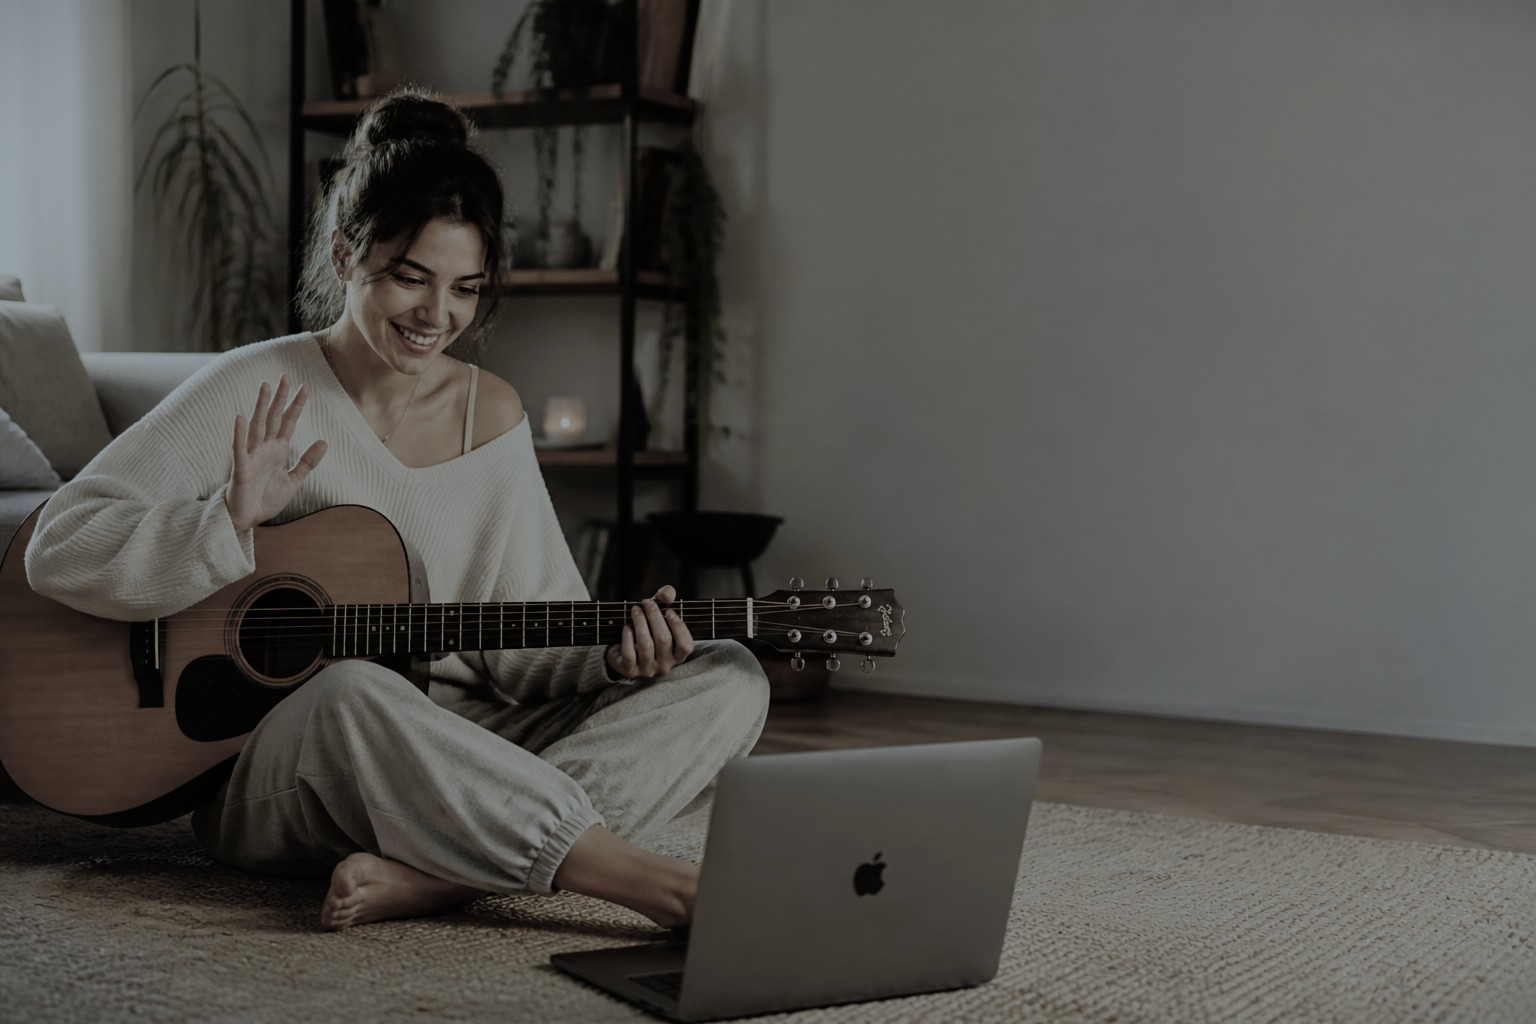
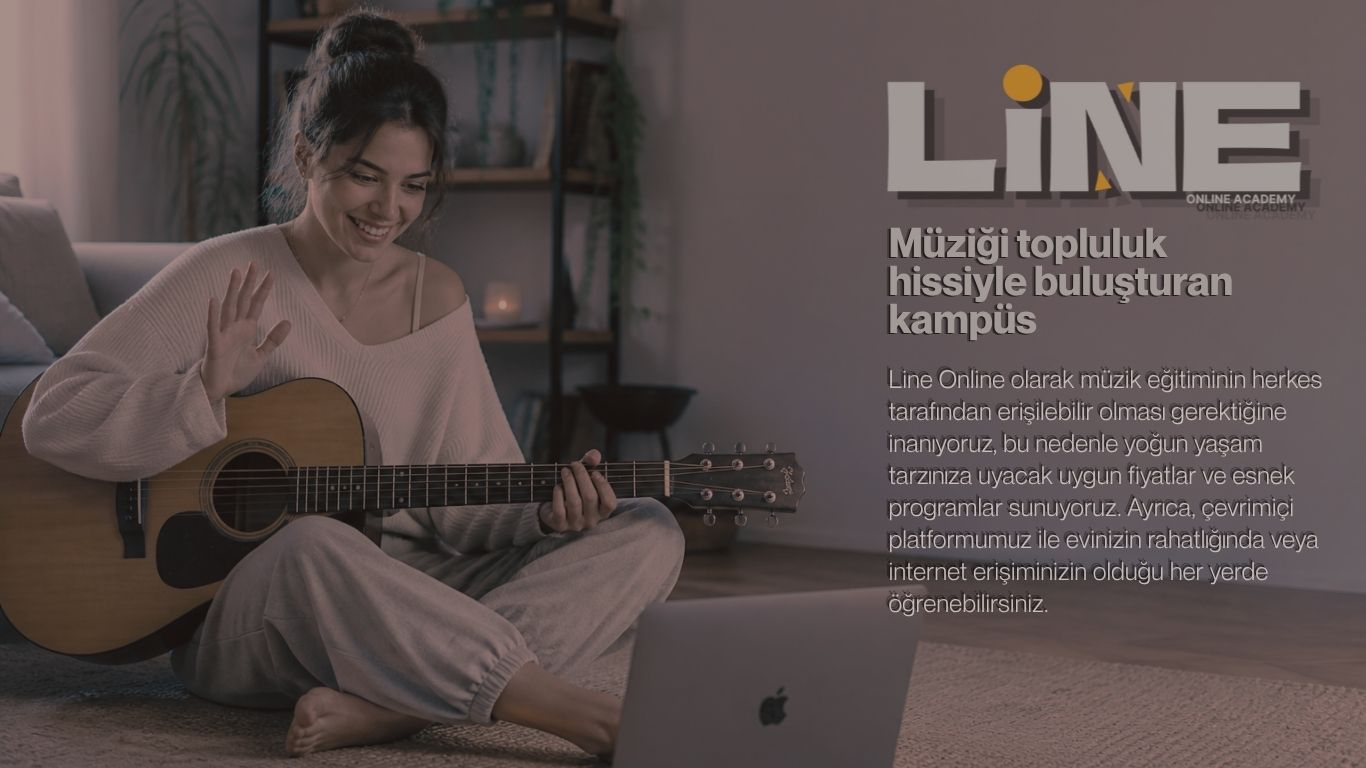
Add files via upload

diff --git a/styles.css b/styles.css
@@ -569,13 +569,14 @@ button {
 
 #dashboard {
   display: flex;
-  min-height: calc(100vh - 104px);
+  min-height: calc(100vh - var(--topbar-height));
+  padding: 0;
 }
 
 .home-landing {
   position: relative;
   flex: 1;
-  min-height: min(78vh, 860px);
+  min-height: calc(100vh - var(--topbar-height));
   border-radius: 0;
   overflow: hidden;
   background: #1b1718;
@@ -598,63 +599,38 @@ button {
 
 .home-landing-overlay {
   background:
-    linear-gradient(90deg, rgba(16, 13, 14, 0.12) 0%, rgba(16, 13, 14, 0.18) 38%, rgba(32, 26, 28, 0.72) 62%, rgba(32, 26, 28, 0.82) 100%),
-    linear-gradient(180deg, rgba(20, 16, 18, 0.06) 0%, rgba(20, 16, 18, 0.2) 100%);
+    linear-gradient(180deg, rgba(18, 14, 16, 0.08) 0%, rgba(18, 14, 16, 0.22) 100%);
 }
 
 .home-landing-copy {
-  inset: 0 0 0 auto;
-  width: min(43%, 500px);
-  display: grid;
-  align-content: center;
-  gap: 18px;
-  padding: 54px 34px 40px;
+  inset: auto 0 0 0;
+  display: flex;
+  justify-content: flex-end;
+  align-items: flex-end;
+  padding: 28px 30px 26px;
   z-index: 1;
 }
 
-.home-landing-logo {
-  width: min(100%, 320px);
-  margin-left: auto;
-  filter: drop-shadow(0 14px 18px rgba(0, 0, 0, 0.38));
-}
-
-.home-landing-copy h3 {
-  margin: 0;
-  max-width: 320px;
-  color: #f1ece7;
-  font-size: clamp(2rem, 3.4vw, 3.4rem);
-  line-height: 0.96;
-  letter-spacing: -0.05em;
-  text-shadow: 4px 4px 0 rgba(24, 20, 21, 0.48);
-}
-
-.home-landing-copy p {
-  margin: 0;
-  color: rgba(243, 237, 232, 0.95);
-  font-size: clamp(1rem, 1.15vw, 1.22rem);
-  line-height: 1.55;
-  text-shadow: 2px 2px 0 rgba(24, 20, 21, 0.24);
-}
-
 .home-landing-cta {
-  justify-self: end;
-  margin-top: 8px;
-  padding: 0;
-  border: 0;
-  background: transparent;
+  padding: 14px 18px;
+  border: 1px solid rgba(255, 255, 255, 0.1);
+  border-radius: 16px;
+  background: rgba(18, 16, 18, 0.46);
+  backdrop-filter: blur(10px);
   color: #fff7ef;
-  font-size: 1rem;
+  font-size: 0.95rem;
   font-weight: 900;
   letter-spacing: 0.06em;
   text-transform: uppercase;
   text-align: right;
   cursor: pointer;
   text-shadow: 2px 2px 0 rgba(24, 20, 21, 0.38);
-  transition: opacity 150ms ease, transform 150ms ease;
+  box-shadow: 0 14px 30px rgba(0, 0, 0, 0.22);
+  transition: opacity 150ms ease, transform 150ms ease, background 150ms ease;
 }
 
 .home-landing-cta:hover {
-  opacity: 0.86;
+  background: rgba(24, 21, 24, 0.66);
   transform: translateY(-1px);
 }
 
@@ -3879,16 +3855,11 @@ button {
   }
 
   .home-landing {
-    min-height: 72vh;
+    min-height: calc(100vh - var(--topbar-height));
   }
 
   .home-landing-copy {
-    width: min(52%, 420px);
-    padding: 32px 22px 28px;
-  }
-
-  .home-landing-logo {
-    width: min(100%, 260px);
+    padding: 22px 20px 20px;
   }
 
   .content-area::before {
@@ -4049,36 +4020,16 @@ button {
 
   .home-landing-overlay {
     background:
-      linear-gradient(180deg, rgba(22, 18, 19, 0.14) 0%, rgba(22, 18, 19, 0.34) 44%, rgba(28, 22, 23, 0.82) 100%);
+      linear-gradient(180deg, rgba(22, 18, 19, 0.06) 0%, rgba(22, 18, 19, 0.22) 54%, rgba(28, 22, 23, 0.56) 100%);
   }
 
   .home-landing-copy {
-    inset: auto 0 0 0;
-    width: 100%;
-    padding: 26px 18px 22px;
-    align-content: end;
-    gap: 14px;
-    background: linear-gradient(180deg, rgba(20, 16, 18, 0), rgba(20, 16, 18, 0.72));
-  }
-
-  .home-landing-logo {
-    width: min(100%, 220px);
-    margin-left: 0;
-  }
-
-  .home-landing-copy h3 {
-    max-width: none;
-    font-size: clamp(1.7rem, 7vw, 2.45rem);
-  }
-
-  .home-landing-copy p {
-    font-size: 0.98rem;
-    line-height: 1.48;
+    padding: 18px 14px 16px;
   }
 
   .home-landing-cta {
-    justify-self: start;
-    text-align: left;
+    justify-self: end;
+    padding: 12px 14px;
     font-size: 0.9rem;
   }
 

diff --git a/index.html b/index.html
@@ -11,7 +11,7 @@
       href="https://fonts.googleapis.com/css2?family=Space+Grotesk:wght@400;500;700&family=Instrument+Serif:ital@0;1&display=swap"
       rel="stylesheet"
     />
-    <link rel="stylesheet" href="./styles.css?v=20260502-1" />
+    <link rel="stylesheet" href="./styles.css?v=20260502-2" />
   </head>
   <body>
     <div class="app-shell">
@@ -99,17 +99,9 @@
 
         <section id="dashboard" class="view-panel active">
           <section class="home-landing">
-            <img class="home-landing-image" src="./public/assets/home-hero.jpg" alt="Line Online Academy anasayfa görseli" />
+            <img class="home-landing-image" src="./home-hero.jpg" alt="Line Online Academy anasayfa görseli" />
             <div class="home-landing-overlay"></div>
             <div class="home-landing-copy">
-              <img class="home-landing-logo" src="./logo.png" alt="LINE Online Academy" />
-              <h3>Müziği topluluk hissiyle buluşturan kampüs</h3>
-              <p>
-                Line Online olarak müzik eğitiminin herkes tarafından erişilebilir olması gerektiğine
-                inanıyoruz, bu nedenle yoğun yaşam tarzınıza uyacak uygun fiyatlar ve esnek programlar
-                sunuyoruz. Ayrıca çevrimiçi platformumuz ile evinizin rahatlığında veya internet
-                erişiminizin olduğu her yerde öğrenebilirsiniz.
-              </p>
               <button type="button" class="home-landing-cta" data-view-jump="about">
                 Bilgi Almak İçin Tıklayın
               </button>
@@ -1118,6 +1110,6 @@
     <!-- deploy-refresh: 2026-04-28T19:12:00+03:00 -->
     <script src="https://cdn.jsdelivr.net/npm/@supabase/supabase-js@2"></script>
     <script src="./supabase-config.js?v=20260422-5"></script>
-    <script src="./app.js?v=20260502-1"></script>
+    <script src="./app.js?v=20260502-2"></script>
   </body>
 </html>
